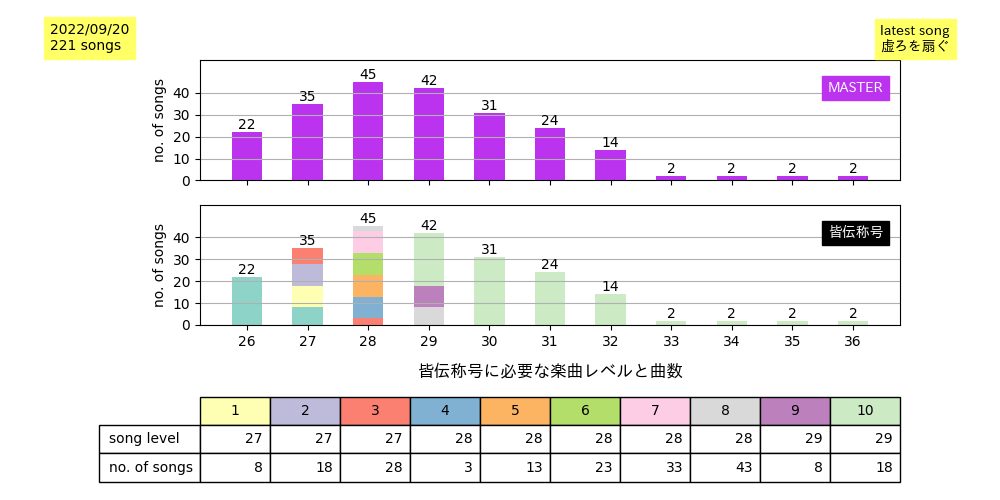
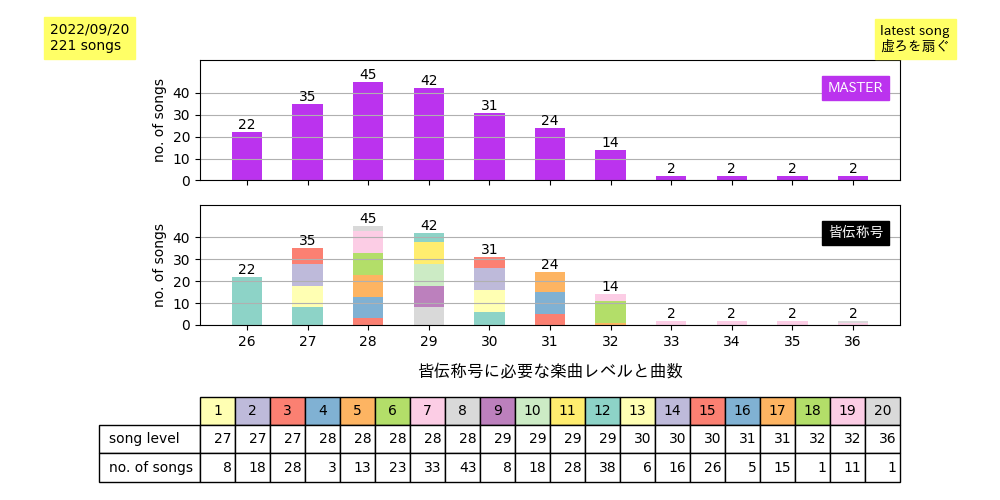
mad skill level update

diff --git a/scripts/difficulty_stats_calc.py b/scripts/difficulty_stats_calc.py
@@ -105,19 +105,19 @@ while read_time(data[data_offset_idx]["release date"]) >= oldest_time and data_o
 
     # print(sum([Mas_data[s] for s in key_data]))
 
-    mad_skillz_dist = [[0 for k in key_data] for j in range(10 + 1)]
+    mad_skillz_dist = [[0 for k in key_data] for j in range(20 + 1)]
     Mas_tot_num = sum([Mas_data[s] for s in key_data])
 
     # テーブル用データ
-    mad_skillz_stats = [["", ""] for i in range(10)]
+    mad_skillz_stats = [["", ""] for i in range(20)]
 
     # 今の場所を指すポインタ　[楽曲レベル、曲数]
     temp_diff_pos = [0, 0]
-    for i in range(11):
+    for i in range(21):
         diff_song_num = 10
         if i == 0:
             diff_song_num *= 3
-        if i == 10:
+        if i == 20:
             diff_song_num = Mas_tot_num + 1
 
         # numbering variable
@@ -166,11 +166,13 @@ while read_time(data[data_offset_idx]["release date"]) >= oldest_time and data_o
                        color=bar_color[0], label="MASTER")
 
     y_offset = [0 for k in key_data]
-    ms_cm = plt.cm.get_cmap("Set3", 12)
-    for i in range(11):
+    # ms_cm_colors = list(plt.cm.get_cmap(
+    #     "Set3", 12).colors) + list(plt.cm.get_cmap("tab10", 10).colors)
+    ms_cm_colors = plt.cm.get_cmap("Set3").colors * 2
+    for i in range(21):
         p[1] = axes[1].bar(key_data, mad_skillz_dist[i],
                            bottom=y_offset, width=0.5,
-                           color=ms_cm.colors[i], label="皆伝称号")
+                           color=ms_cm_colors[i], label="皆伝称号")
         y_offset = [y_offset[j] + mad_skillz_dist[i][j]
                     for j in range(len(key_data))]
 
@@ -190,8 +192,8 @@ while read_time(data[data_offset_idx]["release date"]) >= oldest_time and data_o
     #    axes[i].autoscale()
 
     ms_table = plt.table(cellText=list(zip(*mad_skillz_stats)),
-                         colLabels=range(1, 11),
-                         colColours=ms_cm.colors[1:],
+                         colLabels=range(1, 21),
+                         colColours=ms_cm_colors[1:],
                          rowLabels=["song level", "no. of songs"],
                          bbox=[0, -1.3, 1, 0.7],
                          label="mad skill level")
